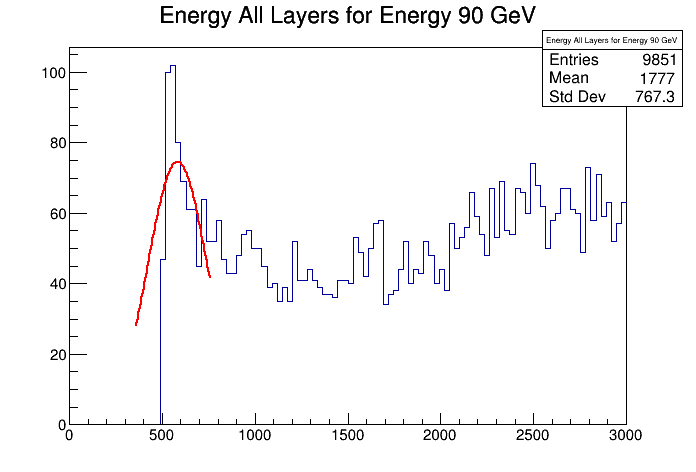
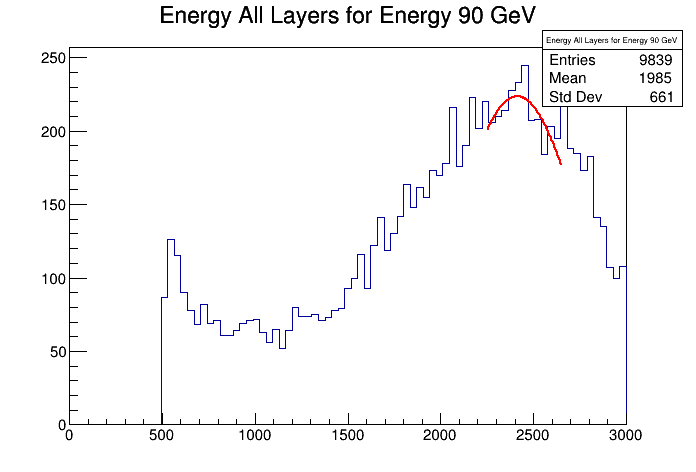
Commiting before adding support to new MIP file format

diff --git a/EngReco.py b/EngReco.py
@@ -18,10 +18,14 @@ if len(sys.argv) > 1:
 
 
 
-
-# F_Input_Name = "/home/rsaradhy/Work/Output/TransitionH_L/New_Data/Oct_NTuple/Electron/"+str(energy)+"GeV.root"
-F_Input_Name = "/home/rsaradhy/Work/Output/TransitionH_L/Data/data_27_3_2018/H2/Electron/"+str(energy)+"GeV.root"
+# For Here
+# F_Input_Name = "/home/rsaradhy/Work/Output/TransitionH_L/Data/data_27_3_2018/H2/Electron/"+str(energy)+"GeV.root"
 # F_Input_Name = "/home/rsaradhy/Work/Output/TransitionH_L/Data/data_27_3_2018/H2/Pion/"+str(energy)+"GeV.root"
+
+# For Zeb
+# F_Input_Name = "/local/cms/user/saradhy/public/data/data_27_3_2018/H2/Pion/"+str(energy)+"GeV.root"
+# F_Input_Name = "/local/cms/user/saradhy/public/data/data_27_3_2018/H2/Electron/"+str(energy)+"GeV.root"
+
 print "Opening File: " + F_Input_Name
 F_Input = ROOT.TFile(F_Input_Name)
 Tree_Input = F_Input.Get("pulseshapeplotter/T")#
@@ -83,7 +87,7 @@ Reference branches available...
 '''
 
 name = "Energy All Layers for Energy " + str(energy) + " GeV"
-Total_Energy_Hist = ROOT.TH1F(name,name,110,0,3000)
+Total_Energy_Hist = ROOT.TH1F(name,name,85,0,3000)
 
 check = 0.0
 maxEvents = Tree_Input.GetEntries()
@@ -158,3 +162,5 @@ print
 name = "./Analysed/AllLayer_"+str(energy)+"GeV_"+fitName+".png"
 Total_Energy_Hist.Draw()
 ROOT.gPad.SaveAs(name)
+
+# raw_input("Enter to exit")

diff --git a/ADCtoMIPS.py b/ADCtoMIPS.py
@@ -24,7 +24,7 @@ def getAdc2MipBoard(brd2Module_File,calib_File=None):
 					board=100
 
 
-			ski[4*board+int(line.split()[1])] = line.split()[2]
+			ski[4*board+int(line.split()[2])] = line.split()[3]
 			# print str(board)+"\t" + str(int(line.split()[1])) +"\t"+ str(4*int(board) + int(line.split()[1])) + "\t" + line.split()[2]
 
 	return ski
@@ -117,10 +117,10 @@ def ADCtoMIPS(a=None, b=None, c=None, d=None,e=None,lines=None,lines2=None,adc2M
 			TP_LG2HG =lines[4*board+skiroc].split()[6+shift]
 			ConvFac_TOT2LG =  lines2[4*board+skiroc].split()[2+shift]
 			# ConvFac_Intercept_TOT2LG = lines2[4*board+skiroc].split()[4+shift]
-			ConvFac_TOT2LG =  13.
+			ConvFac_TOT2LG =  5.
 
 
-			TP_TOT2LG =1200. # lines2[4*board+skiroc].split()[6+shift]
+			TP_TOT2LG =5000. # lines2[4*board+skiroc].split()[6+shift]
 			# print hg
 			# print("These are the points for the particular board. \n"+str(ConvFac_LG2HG) + "\n"+str(TP_LG2HG) + "\n"+str(ConvFac_TOT2LG) + "\n"+str(TP_TOT2LG) + "\n" + str(adc2Mip) + "\n")
 			if float(hg) <= float(TP_LG2HG):
